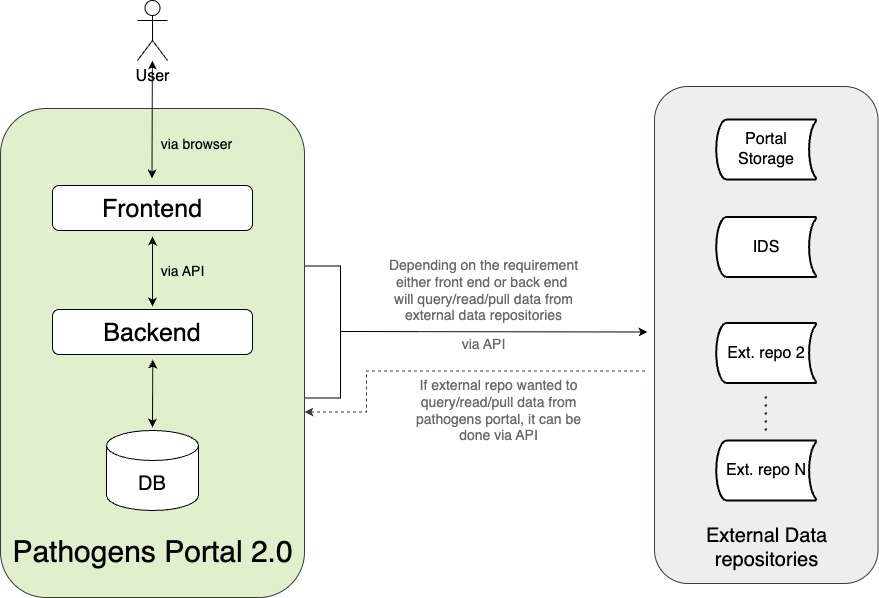
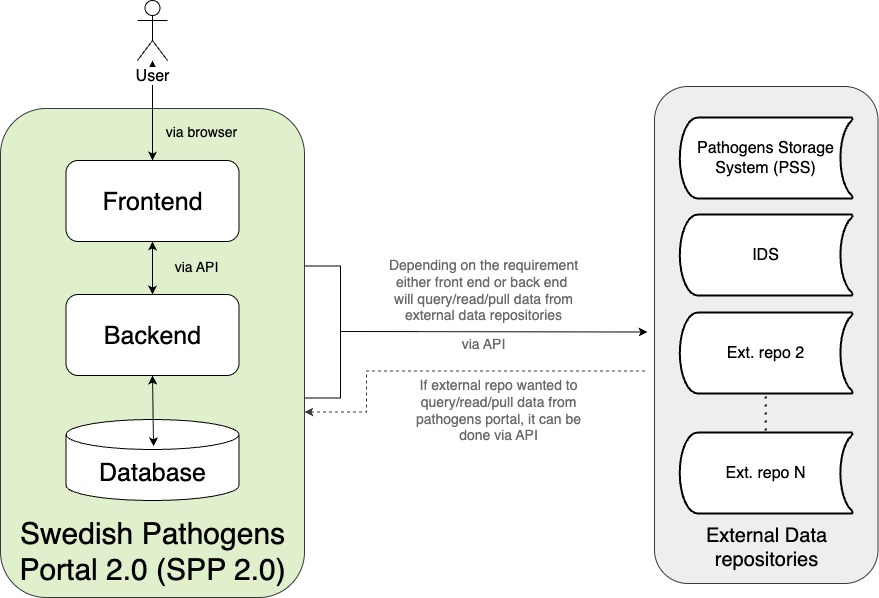
docs(adr): Revise Swedish Pathogens Portal 2.0 architecture document for clarity and detail

diff --git a/doc/architecture/decisions/0002-pathogens-portal-2-0-architecture.md b/doc/architecture/decisions/0002-pathogens-portal-2-0-architecture.md
@@ -1,4 +1,4 @@
-# 2. Pathogens Portal 2.0 Architecture
+# 2. Swedish Pathogens Portal 2.0 Architecture
 
 ## Status
 
@@ -6,7 +6,7 @@ Draft.
 
 ## Context
 
-The Swedish Pathogens Portal is Sweden's national Pathogens Portal Node. The aim of this portal is to ensure that research outputs related to are shared in as Open and FAIR a manner as possible. In particular, the portal focuses on research outputs related to infectious disease and pandemic preparedness generated by research affiliated with a Swedish research organisation. 
+The Swedish Pathogens Portal is Sweden's national Pathogens Portal Node (PPN). The aim of this portal is to ensure that research outputs related to are shared in as Open and FAIR a manner as possible. In particular, the portal focuses on research outputs related to infectious disease and pandemic preparedness generated by research affiliated with a Swedish research organisation. 
 
 ### Core Components
 
@@ -14,7 +14,9 @@ The Swedish Pathogens Portal is Sweden's national Pathogens Portal Node. The aim
 - The static site generator we currently use, Hugo, is augmented with JavaScript code to add dynamic capabilities. Everything is encapsulated into a single delivery unit.
 
 **Supporting Services:**
-- **Blobserver:** Stores and serves raw and processed data.
+- **Blobserver:** Stores and serves two main categories of data:
+  - Portal-specific dynamic data (such as notices, banners, events, and other content managed by Team Freya).
+  - Researcher-submitted pathogens data (such as influenza datasets, other pathogens-related data, and their visualisations).
 - **Form Manager:** Handles user-submitted forms.
 - **DC-Dynamic:** Orchestrates scheduled job execution.
 - **Pathogens Portal Visualisations:** Python scripts that process data and generate visualisations that are typically displayed on dashboards.
@@ -26,7 +28,7 @@ The Swedish Pathogens Portal is Sweden's national Pathogens Portal Node. The aim
 
 
 ### Workflows to Update Content
-- **Static content:** Manual edits in the codebase by Team Freya followed by new deployment.
+- **Static content:** Manual edits in the codebase and data files (such as json files related to news and events etc,) by Team Freya followed by new deployment.
 - **Dynamic user data:** Users upload raw data to Blobserver. Team Freya configures automated scripts and cron jobs to transform and visualise the data in the static pathogen portal.
 - **Dynamic team data:** Team Freya updates json files in Blobserver (related to events and funding opportunities, for example) which are analysed and injected directly into Hugo via the embedded JavaScript code to make the content appear dynamic. 
 
@@ -34,42 +36,61 @@ The Swedish Pathogens Portal is Sweden's national Pathogens Portal Node. The aim
 
 *Figure 2: User interaction workflows for updating content/data*
 
-### Motivation for Pathogens Portal 2.0
+### Motivation for Swedish Pathogens Portal 2.0 (SPP 2.0)
 
 The current Pathogens Portal architecture has a number of limitations, making it necessary to adopt a more dynamic, flexible and scalable system.
 
 #### Current Limitations
 
-From a global point of view, we are developing a dynamic site from a static framework:
+The motivations for moving from a static web framework include: 
 
 1. **Too many supporting services:** each service requires dedicated maintainance work, security checks and dependency updates, which increases the workload and disperses the team's efforts. 
 2. **Hard to implement data standards:** in the current workflow, there is no testing related to ensuring that the updated data and associated metadata comply with given standard, which provides very limited help to researchers.
 3. **Limited automation**: in the absence of a dedicated backend, data processing and visualisation updates require manual intervention and script management, and we cannot implement automated workflows to support the sustainable addition of new features.
 
-#### Need to redesign the Swedish Pathogens Portal
+#### Need to redesign the Swedish Pathogens Portal 2.0 (SPP 2.0)
 
 This ADR proposes a change in architecture that will address the limitations of the Swedish Pathogens Portal by transitioning it from a static website to a dynamic web application.
 This will allow developers to concentrate their efforts on serving the infectious disease and pandemic preparedness research communities in Sweden more effectively by maintaining fewer services and adding new, data-centred features and automated workflows.
 
 ## Decision
 
-We will transform the Swedish Pathogens Portal from a static website into a **service-oriented, modular web application**, eliminating all supporting services such as Blobserver and Form Manager. This new architecture comprises independently deployable components with clearly defined responsibilities, enabling the Pathogens Portal to expand in terms of both functionality and usage.
+We will transition the Swedish Pathogens Portal from a static website into a **service-oriented, modular web application**, removing dependencies on supporting services like Blobserver, Form Manager, and DC-Dynamics. This new architecture comprises independently deployable components with clearly defined responsibilities, enabling the Swedish Pathogens Portal 2.0 (SPP 2.0) to expand in terms of both functionality and usage.
 
 ![Updating data workflow in current Pathogens Portal](../../figures/0002-portal2.0-architecture.jpg)
 
 *Figure 3: Proposal for new Swedish Pathogens Portal architecture*
 
+### System Boundaries and Active Decisions
+
+- Swedish Pathogens Portal 2.0 (SPP 2.0) will serve only open/public data; no general user authentication or RBAC will be implemented within the portal.
+- Only staff users (Team Freya/data managers) will have authenticated access via Django's built-in authentication and authorisation mechanisms to manage portal content. This approach eliminates the need for new releases and redeployments when updating content.
+- Pathogens-related data from research groups and sensitive data management will not be handled by Swedish Pathogens Portal 2.0 (SPP 2.0) but will be delegated to the Pathogens Storage System (PSS), which will have its own ADR to describe this further.
+- Dependency removal strategy:
+  - **Blobserver:** Portal-specific dynamic data will migrate to the SPP 2.0 database. A comprehensive strategy for retiring Blobserver beyond portal-specific data is outside the scope of this ADR.
+  - **Form Manager & DC-Dynamics:** SPP 2.0 will no longer depend on these services; their continued use by other systems is outside the scope of this ADR.
+
+### Out of Scope
+
+This ADR focuses specifically on the architectural design and technology selection for Swedish Pathogens Portal 2.0 (SPP 2.0). The following items are explicitly excluded from this decision's scope:
+
+- **General user authentication and RBAC:** All portal content remains publicly accessible without user registration or role-based access controls
+- **Management of researcher-contributed and sensitive data:** This responsibility is delegated to the Pathogens Storage System (PSS), which will be addressed in a separate ADR
+- **Complete decommissioning strategy for Blobserver:** While portal-specific data will migrate to Swedish Pathogens Portal 2.0 (SPP 2.0), comprehensive Blobserver retirement beyond portal data is outside this ADR's scope
+- **Future use or continuity of Form Manager and DC-Dynamics:** These services will be removed from Swedish Pathogens Portal 2.0 (SPP 2.0) architecture; their potential use by other systems is not addressed here
+- **Migration strategy and implementation details:** Specific data migration procedures, timelines, and technical implementation details from current services to Swedish Pathogens Portal 2.0 (SPP 2.0) will be addressed in separate implementation planning documents
+
 ### Core Technology Stack
 
 * **Frontend**: [Next.js](https://nextjs.org/). Responsible for rendering the user interface and interacting with APIs. Supports hybrid rendering (static and dynamic) and offers high performance for modern web delivery.
 
-* **Backend**: [Django](https://www.djangoproject.com/). Acts as the system’s core, exposing API endpoints via Django REST framework, handling authentication, business logic, and orchestrating integrations with external systems.
+* **Backend**: [Django](https://www.djangoproject.com/). Acts as the system's core, exposing API endpoints via Django REST framework, handling authentication, business logic, and orchestrating integrations with external systems.
 
 * **Database**: [PostgreSQL](https://www.postgresql.org/). Stores structured content, metadata, configuration data, and supports advanced querying through features like JSONB and full-text search.
 
 * **External Services**: These services will be consumed by the backend via their APIs:
 
-  * **Portal storage solution:** for data uploads and file access
+  * **Pathogens Storage System (PSS):** for data uploads and file access
   * **Integrated Data Services (IDS):** for harmonised metadata and research objects
   * **External repositories:** e.g. publication indexes, genomic data archives
 
@@ -108,7 +129,7 @@ This approach aligns with modern web development standards preparing the portal 
 | **Node.js (Express)** for backend                    | More boilerplate, lacks built-in features like Django admin. Team familiarity is lower.                                                    |
 
 
-This decision positions Pathogens Portal 2.0 for long-term maintainability and expansion, with the ability to support richer content, data interactivity, editorial workflows, and integration with SciLifeLab’s broader data infrastructure.
+This decision positions Swedish Pathogens Portal 2.0 (SPP 2.0) for long-term maintainability and expansion, with the ability to support richer content, data interactivity, editorial workflows, and integration with SciLifeLab's broader data infrastructure.
 
 
 ## Consequences
@@ -128,7 +149,7 @@ Adopting a service-oriented architecture (SOA) with decoupled frontend, backend,
   * Federated data integration via APIs
   * End-to-end automation from raw data ingestion to visualisation generation
 
-* **Flexible Integrations**: External systems like Portal Storage Solution, IDS, and domain-specific repositories can be plugged in with minimal effort.
+* **Flexible Integrations**: External systems like Pathogens Storage System (PSS), IDS, and domain-specific repositories can be plugged in with minimal effort.
 
 
 ### Risks & Challenges
@@ -147,4 +168,5 @@ Adopting a service-oriented architecture (SOA) with decoupled frontend, backend,
 
 * The architecture is **intentionally designed to evolve**. If certain design choices prove to be blockers (e.g., service boundaries, data flows, performance), the modular nature of the system allows adjustments without major rewrites.
 * Initial implementation will **reproduce the existing features** of the current Swedish Pathogens Portal, ensuring continuity. As the team gains familiarity, the architecture will support gradual rollout of more advanced features.
+* If requirements change in the future and SPP 2.0 needs to support a general userbase or implement RBAC, the Django backend can support these features, and a new ADR will be created to document and guide such changes.
 
